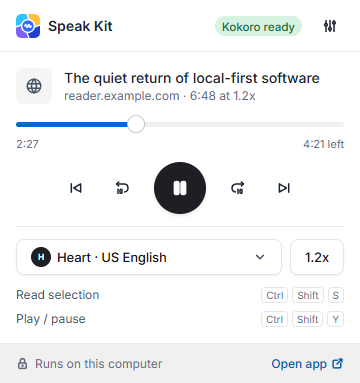
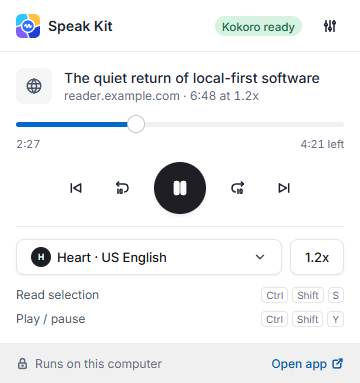
feat(extension): tactile refinements: hover only on fine pointers, tabular numerals, sentence-case panel labels, nested thumb radius, 44px touch hit areas
Design: C9
ADR: n/a

diff --git a/code/apps/extension/src/styles/compose.css b/code/apps/extension/src/styles/compose.css
@@ -17,6 +17,7 @@ body {
     "Segoe UI",
     sans-serif;
   -webkit-font-smoothing: antialiased;
+  font-variant-numeric: tabular-nums;
 }
 .sk-sr {
   position: absolute;
@@ -59,8 +60,10 @@ body {
   outline-offset: 2px;
   border-radius: 4px;
 }
-.sk-link:hover {
-  text-decoration: underline;
+@media (hover: hover) and (pointer: fine) {
+  .sk-link:hover {
+    text-decoration: underline;
+  }
 }
 .sk-primary-round {
   width: 40px;
@@ -376,9 +379,13 @@ body {
   border-radius: var(--radius-control);
   cursor: pointer;
 }
-.sk-voice:hover,
 .sk-voice:has(.sk-voice__opt:focus-visible) {
   background: var(--fill-hover);
+}
+@media (hover: hover) and (pointer: fine) {
+  .sk-voice:hover {
+    background: var(--fill-hover);
+  }
 }
 /* the option and the preview button are siblings: an option must not contain another control */
 .sk-voice__opt {
@@ -887,12 +894,10 @@ body {
   margin: 4px 0 0;
   color: var(--text-tertiary);
   font:
-    600 12px/15px Inter,
+    500 12px/16px Inter,
     "Inter Variable",
     system-ui,
     sans-serif;
-  letter-spacing: 0.04em;
-  text-transform: uppercase;
 }
 .sp-lblrow {
   display: flex;
@@ -956,8 +961,10 @@ body {
   text-align: left;
   cursor: pointer;
 }
-.sp-outline button:hover {
-  background: var(--fill-hover);
+@media (hover: hover) and (pointer: fine) {
+  .sp-outline button:hover {
+    background: var(--fill-hover);
+  }
 }
 .sp-outline li.cur button {
   background: var(--fill-selected);
@@ -996,7 +1003,8 @@ body {
 .sp-queue li > .lm-btn:first-child {
   width: 40px;
   height: 40px;
-  border-radius: var(--radius-control);
+  /* nested radius: card radius minus its 1px border and 8px padding */
+  border-radius: max(var(--radius-xs), calc(var(--radius-card) - 9px));
   background: var(--fill-hover);
 }
 .sp-queue .tx {
@@ -1054,6 +1062,25 @@ body {
 .sp-empty .lm-empty {
   border: 0;
   background: transparent;
+}
+
+/* Readouts with a font shorthand reset the numeric variant: set it after the shorthand. */
+.pp-slider output,
+.op-slider output {
+  font-variant-numeric: tabular-nums;
+}
+/* Touch: small icon buttons get an invisible 44 px hit area. */
+@media (pointer: coarse) {
+  .sp-head .lm-btn,
+  .sp-queue li > .lm-btn:last-child {
+    position: relative;
+  }
+  .sp-head .lm-btn::after,
+  .sp-queue li > .lm-btn:last-child::after {
+    content: "";
+    position: absolute;
+    inset: min(0px, calc((100% - 44px) / 2));
+  }
 }
 
 /* Below 1025 px the options nav collapses to a select at the top and rows stack in one column (design C17, C18). */

diff --git a/code/apps/extension/src/features/launcher/launcher.css b/code/apps/extension/src/features/launcher/launcher.css
@@ -65,8 +65,10 @@
 .sk-tab.is-ghost {
   opacity: 0;
 }
-.sk-tab.is-ghost:hover {
-  opacity: 1;
+@media (hover: hover) and (pointer: fine) {
+  .sk-tab.is-ghost:hover {
+    opacity: 1;
+  }
 }
 .sk-rail {
   position: absolute;
@@ -154,9 +156,11 @@
 .sk-time {
   color: var(--text-secondary);
   font:
-    500 12px/15px ui-monospace,
-    Consolas,
-    monospace;
+    500 12px/15px Inter,
+    "Inter Variable",
+    system-ui,
+    sans-serif;
+  font-variant-numeric: tabular-nums;
 }
 .sk-ltip {
   position: absolute;
@@ -195,4 +199,19 @@
 }
 .sk-back.is-down .lm-icon {
   transform: rotate(180deg);
+}
+
+/* Touch: small icon buttons get an invisible 44 px hit area. */
+@media (pointer: coarse) {
+  .sk .sk-tpb,
+  .sk-pill .sk-vc {
+    position: relative;
+  }
+  .sk .sk-gbtn::after,
+  .sk .sk-tpb::after,
+  .sk-pill .sk-vc::after {
+    content: "";
+    position: absolute;
+    inset: min(0px, calc((100% - 44px) / 2));
+  }
 }

diff --git a/code/apps/extension/src/app/content/shell.css b/code/apps/extension/src/app/content/shell.css
@@ -10,6 +10,7 @@
   inset: 0;
   pointer-events: none;
   color: var(--text-primary);
+  font-variant-numeric: tabular-nums;
 }
 .sk > * {
   pointer-events: auto;
@@ -71,6 +72,7 @@
     "Inter Variable",
     system-ui,
     sans-serif;
+  font-variant-numeric: tabular-nums;
 }
 .sk-pop-scale {
   display: flex;
@@ -120,9 +122,13 @@
   cursor: pointer;
   flex: none;
 }
-.sk-vrow:hover,
 .sk-vrow:has(.sk-vopt:focus-visible) {
   background: var(--fill-hover);
+}
+@media (hover: hover) and (pointer: fine) {
+  .sk-vrow:hover {
+    background: var(--fill-hover);
+  }
 }
 .sk-vopt {
   padding: 0;

diff --git a/code/apps/extension/src/features/reader/reader.css b/code/apps/extension/src/features/reader/reader.css
@@ -106,8 +106,10 @@
   cursor: pointer;
   transition: background-color var(--dur-fade-in, 167ms) ease-out;
 }
-.sk-reader-block:hover {
-  background: color-mix(in srgb, var(--rd-block) 45%, transparent);
+@media (hover: hover) and (pointer: fine) {
+  .sk-reader-block:hover {
+    background: color-mix(in srgb, var(--rd-block) 45%, transparent);
+  }
 }
 .sk-reader blockquote.sk-reader-block {
   border-inline-start: 3px solid var(--rd-line);

diff --git a/code/apps/extension/src/features/player/dock.css b/code/apps/extension/src/features/player/dock.css
@@ -39,6 +39,7 @@
     "Inter Variable",
     system-ui,
     sans-serif;
+  font-variant-numeric: tabular-nums;
   color: var(--text-primary);
 }
 .sk-seek {
